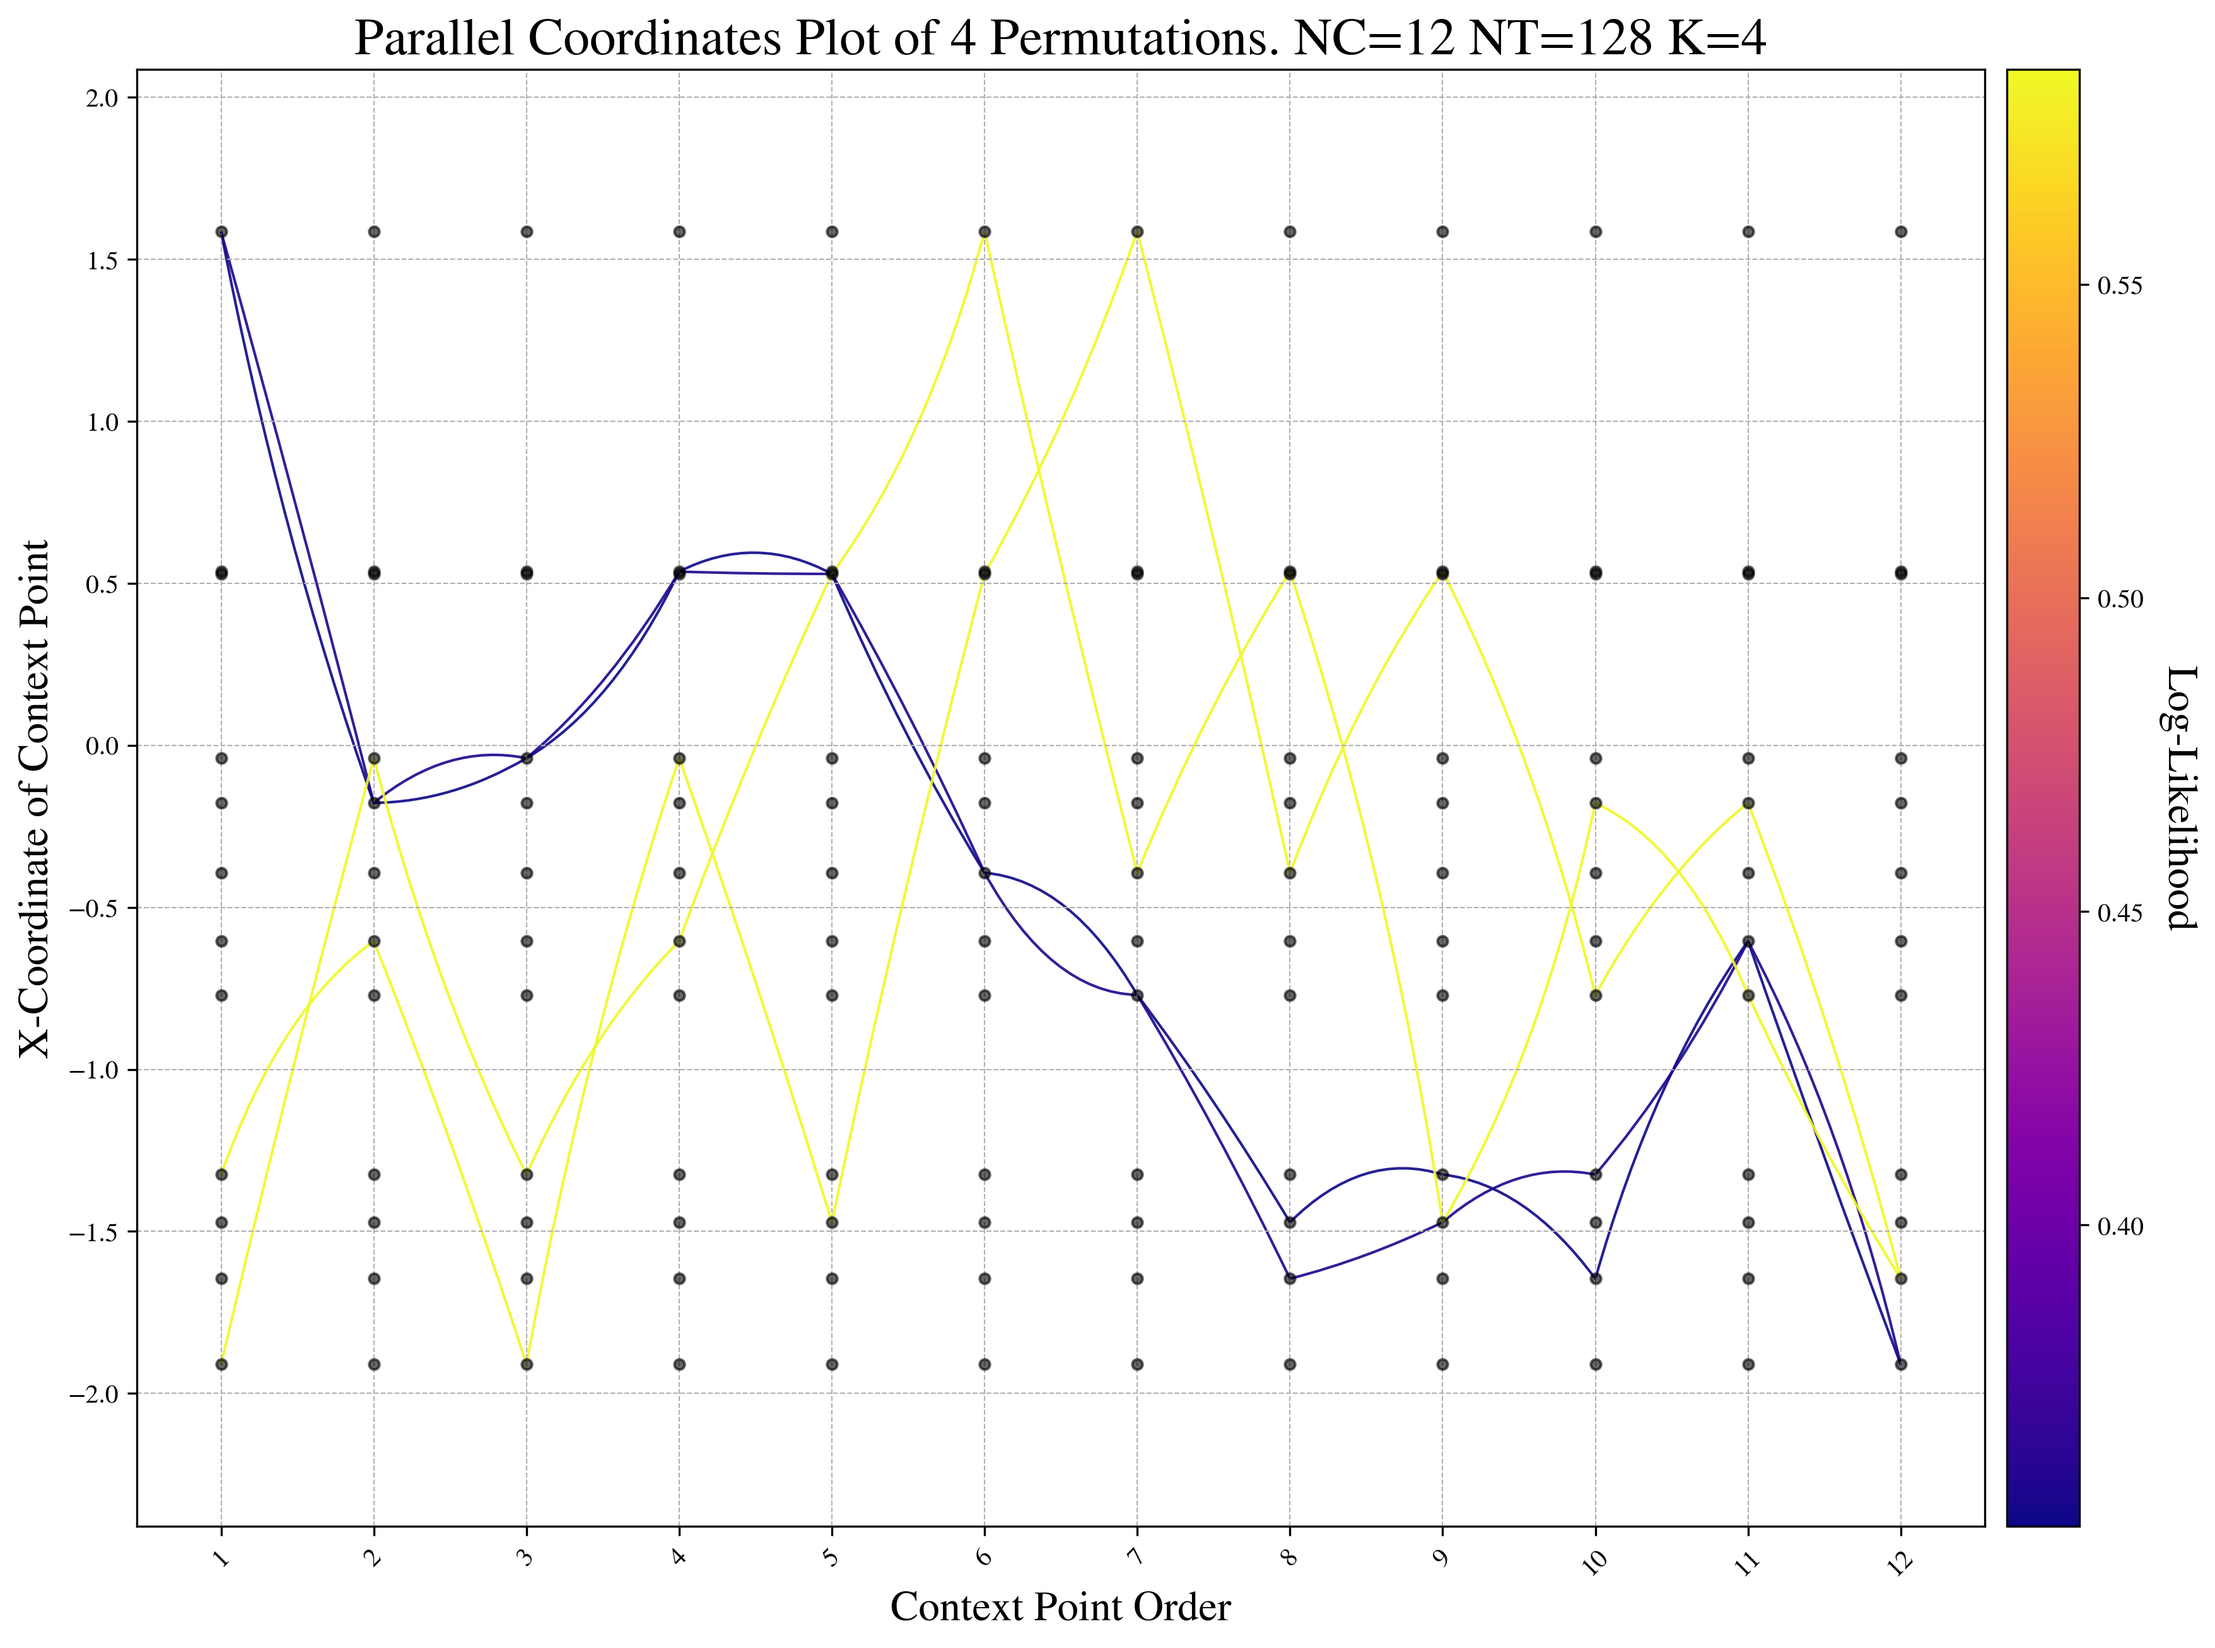
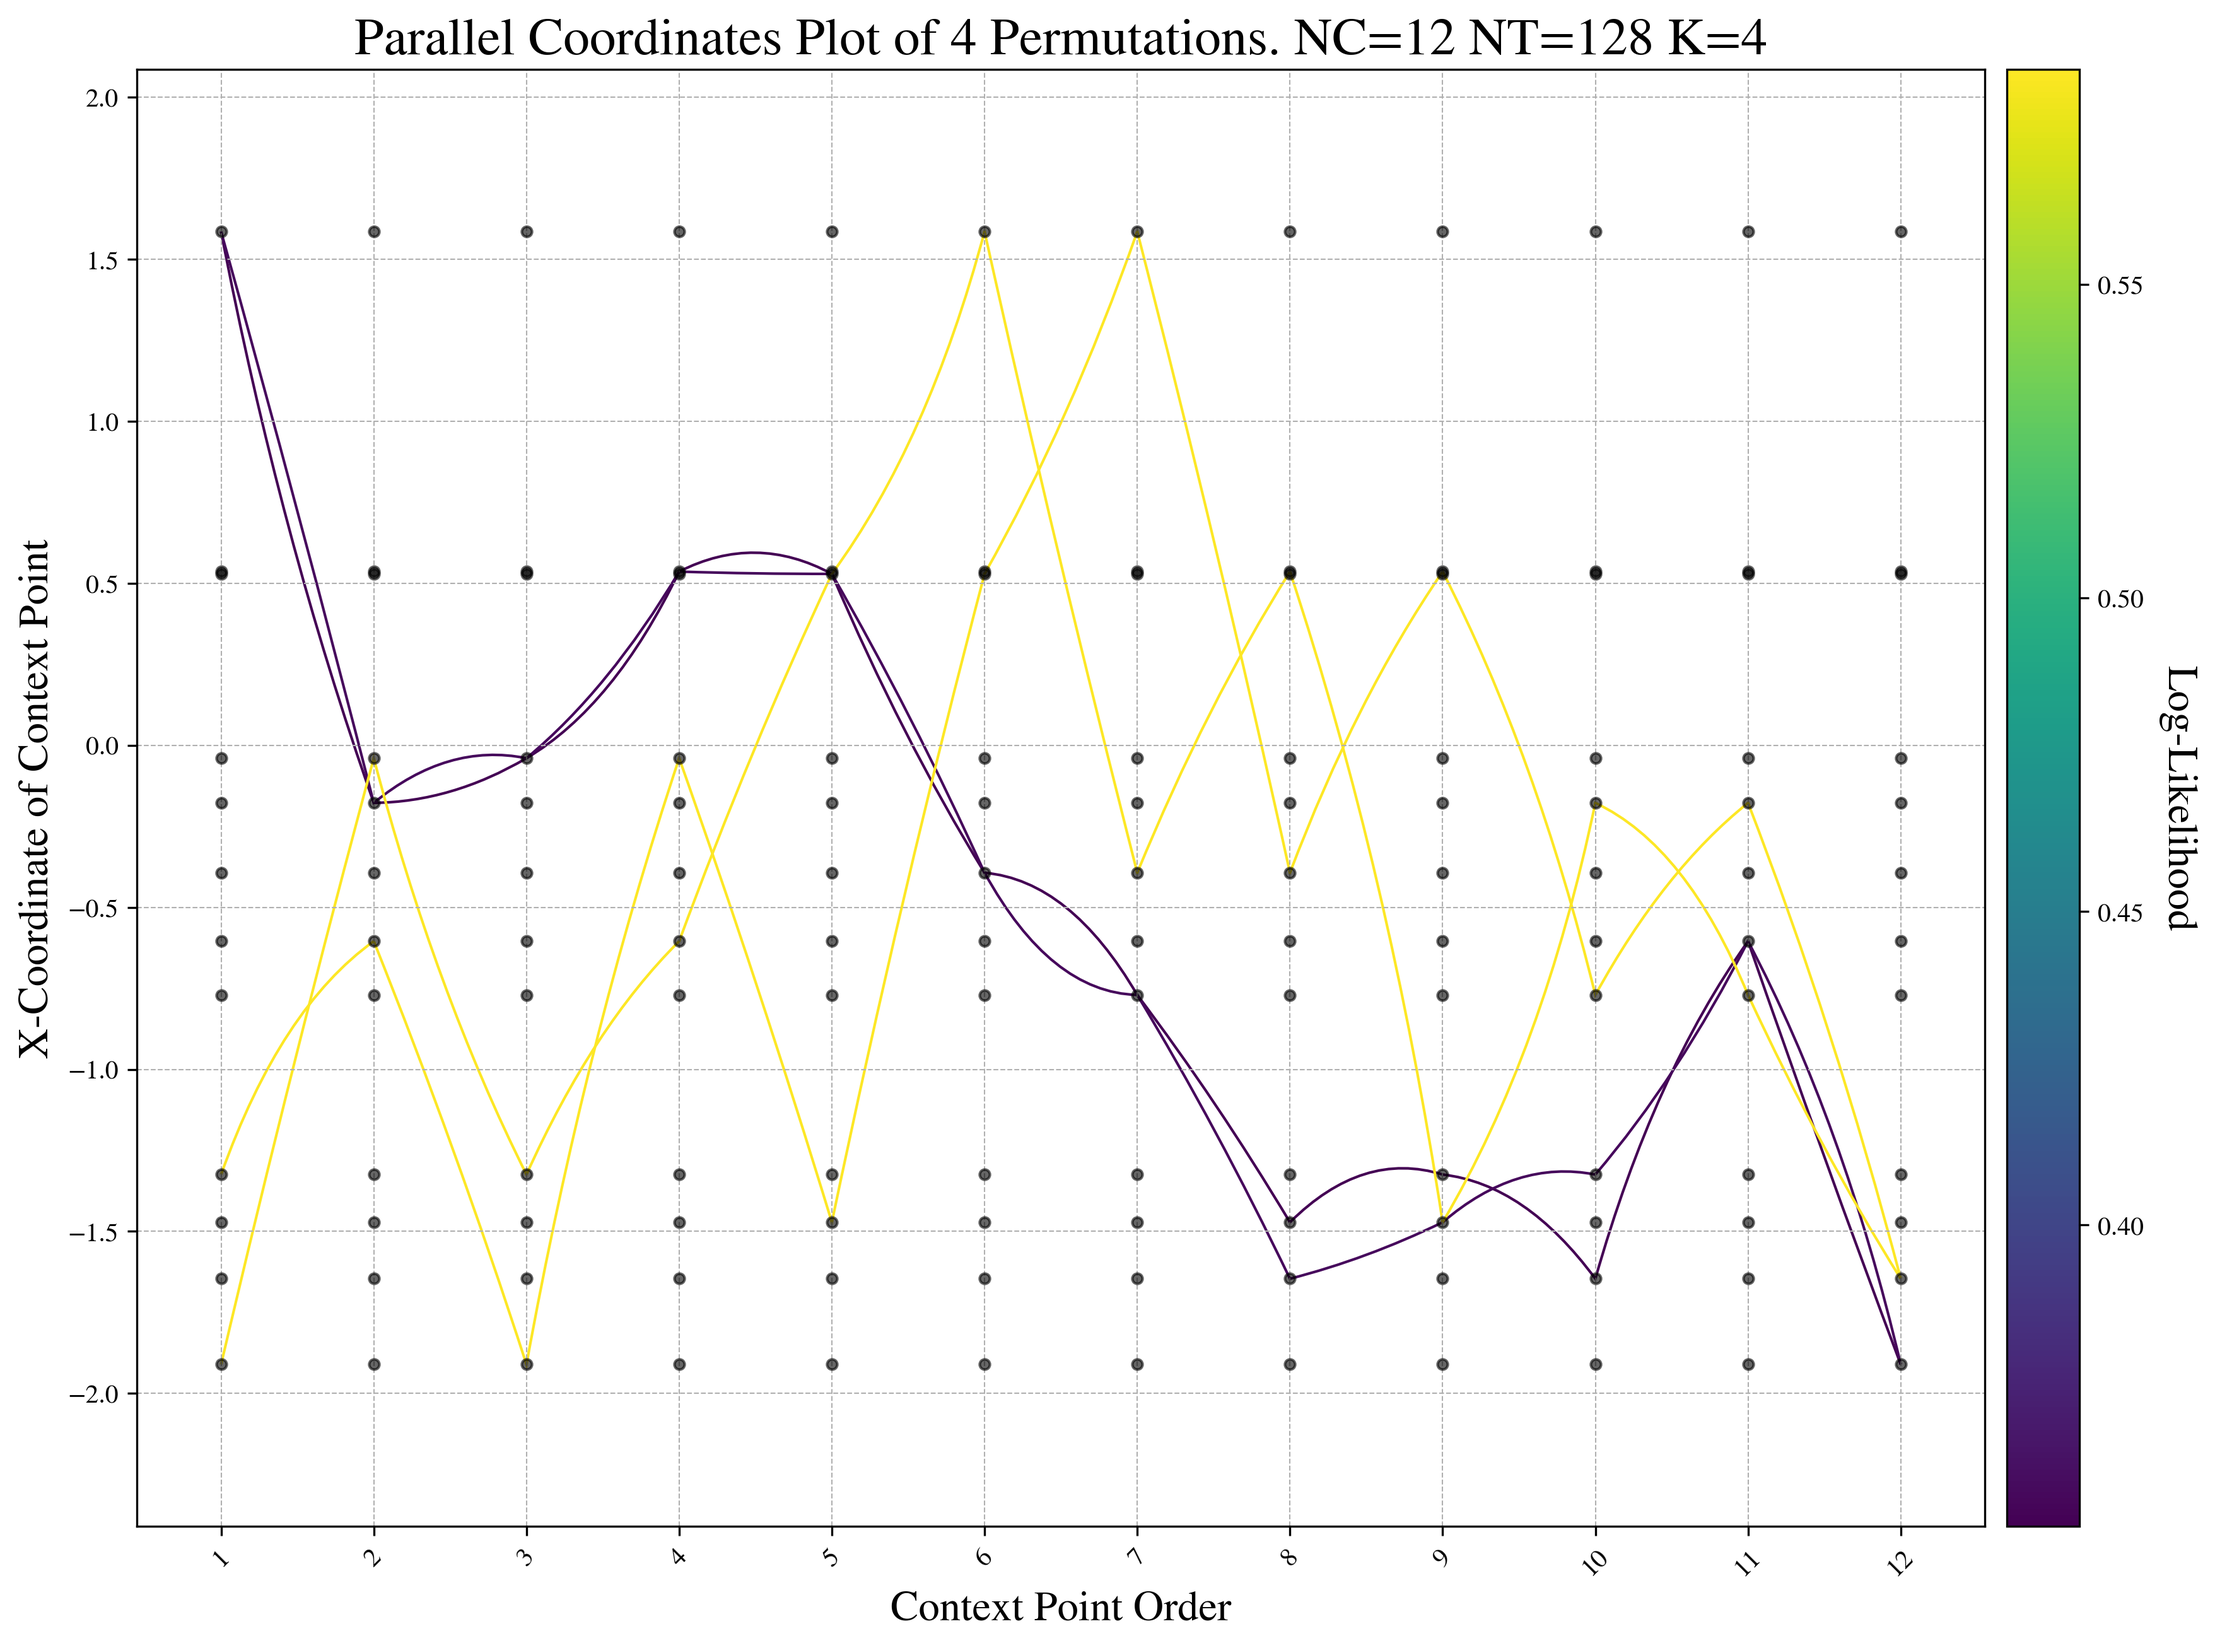
Made plots better for adverserial perms

diff --git a/experiments/plot_adversarial_perms.py b/experiments/plot_adversarial_perms.py
@@ -272,7 +272,7 @@ def plot_parallel_coordinates_bezier(
     
 
     # Colourmap
-    sm = ScalarMappable(cmap=plt.get_cmap('plasma'), norm=Normalize(vmin=log_p.min(), vmax=log_p.max()))
+    sm = ScalarMappable(cmap=plt.get_cmap('viridis'), norm=Normalize(vmin=log_p.min(), vmax=log_p.max()))
     sm.set_array([])
 
     fig, ax = plt.subplots(figsize=(15, 10))
@@ -410,7 +410,7 @@ def visualise_perms(tnp_model, perms: torch.tensor, log_p: torch.tensor, xc: tor
     plot_parallel_coordinates_bezier(perms=perms_spaced,log_p=log_p_spaced, xc=xc, xt=xt, 
         file_name=file_name+"_spaced", plot_targets=plot_targets, alpha_line=0.4)
     plot_parallel_coordinates_bezier(perms=perms_extreme,log_p=log_p_extreme, xc=xc, xt=xt, 
-        file_name=file_name+"_extreme", plot_targets=plot_targets, alpha_line=0.9)
+        file_name=file_name+"_extreme", plot_targets=plot_targets, alpha_line=1.0)
 
     # Bins log probabilities to show variation in log probability with differing permutations
     plain_tnp_mean = None
